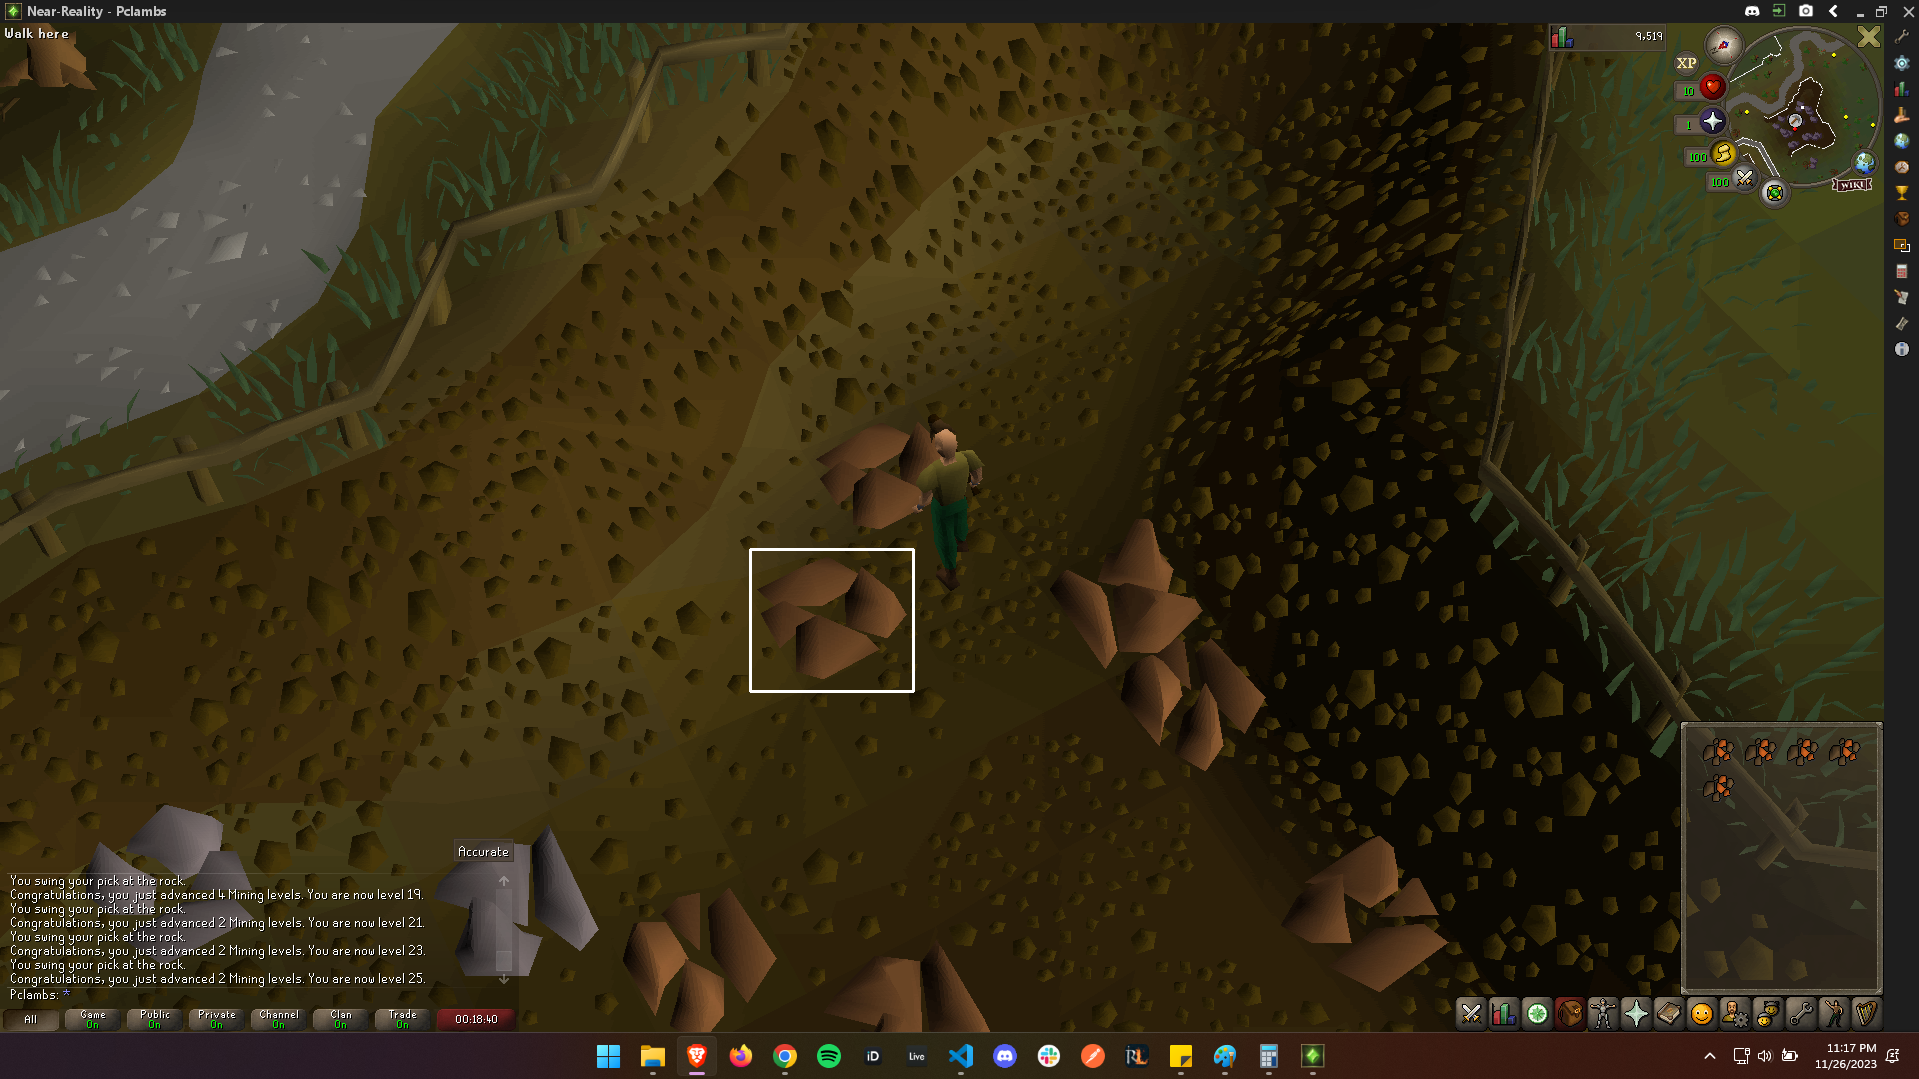
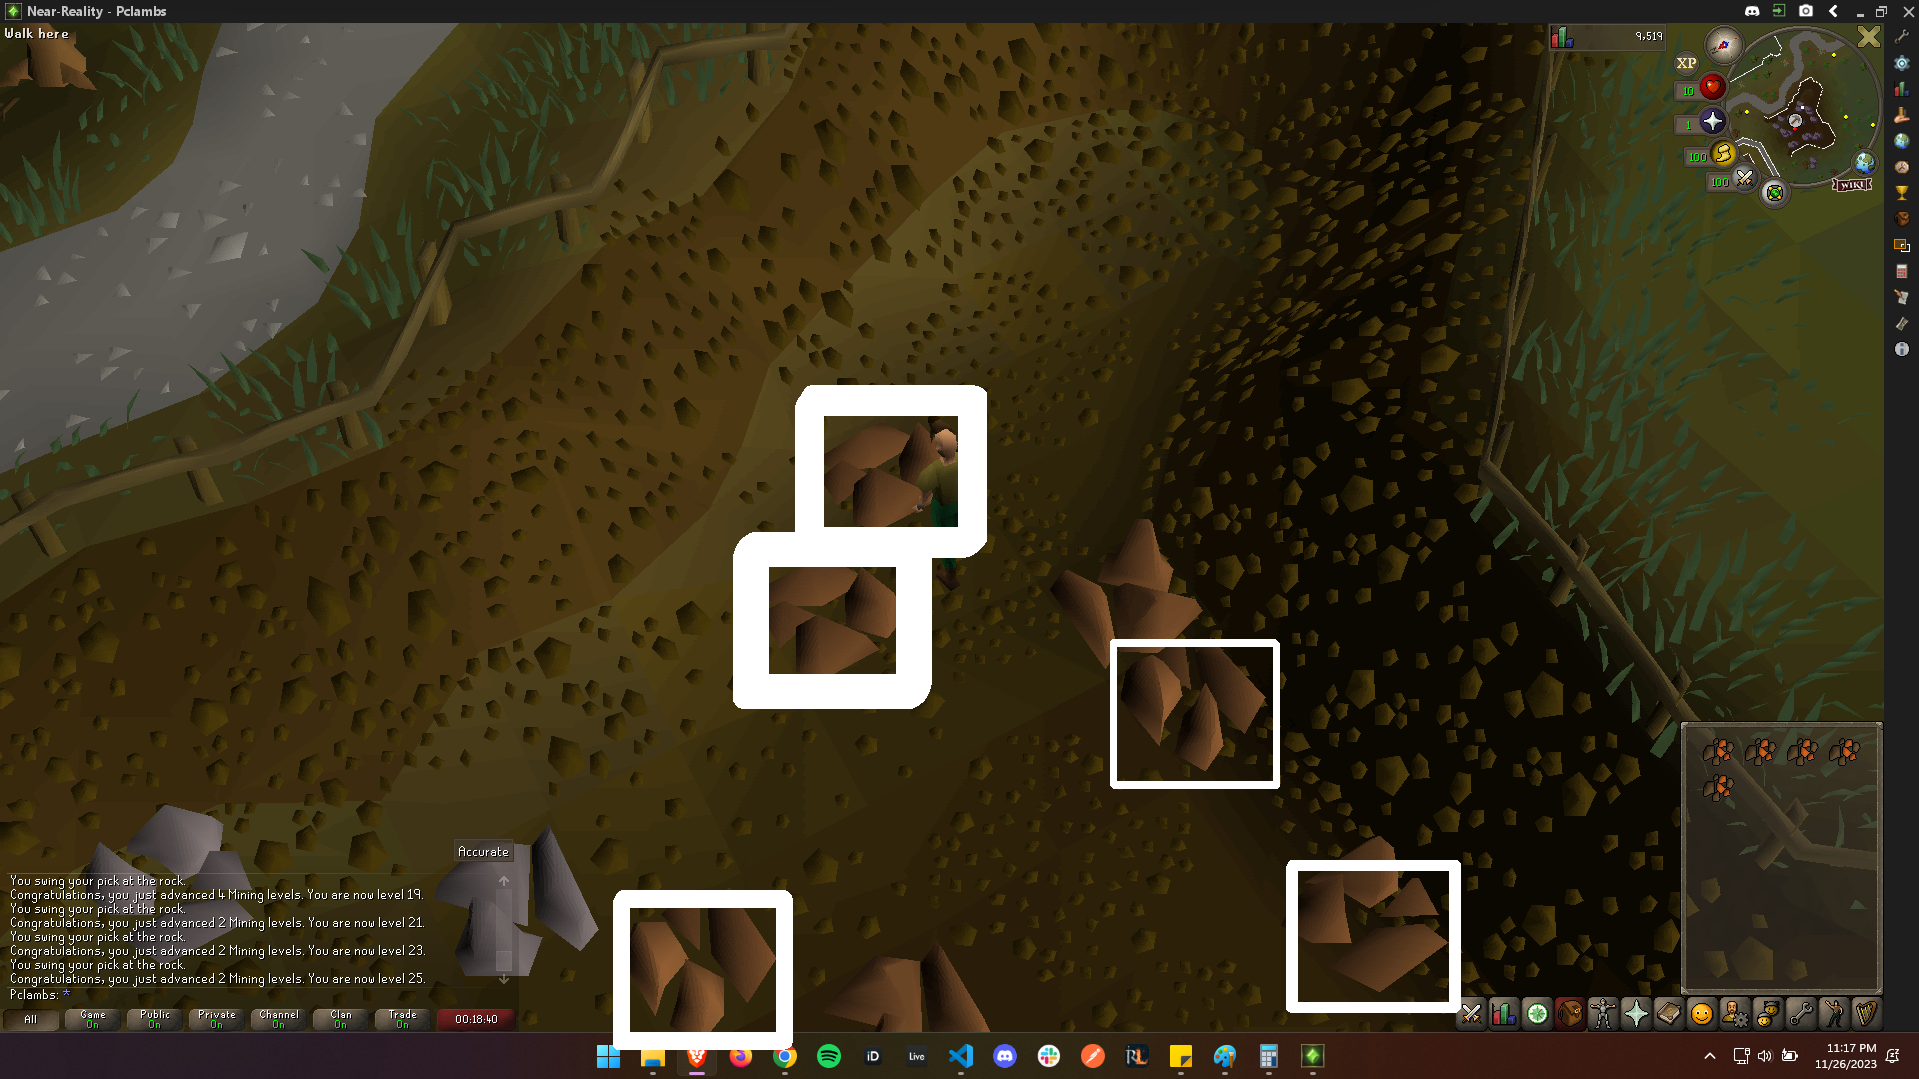
detect matches in multiple locations

diff --git a/main.py b/main.py
@@ -1,41 +1,39 @@
 import cv2 as cv
 import numpy as np
+import os
+
+# change working directory to the folder this script is in
+os.chdir(os.path.dirname(os.path.abspath(__file__)))
 
 # load images
 haystack_img = cv.imread('mine.png', cv.IMREAD_UNCHANGED)
 needle_img = cv.imread('copper.png', cv.IMREAD_UNCHANGED)
 
 result = cv.matchTemplate(haystack_img, needle_img, cv.TM_CCOEFF_NORMED)
+print(result)
 
-# get the best match position
-min_val, max_val, min_loc, max_loc = cv.minMaxLoc(result)
+threshold = 0.39
+locations = np.where(result >= threshold)
+# zip will create tuples of x, y coordinates
+locations = list(zip(*locations[::-1]))
+# print(locations)
 
-print('Best match top left position: %s' % str(max_loc))
-print('Best match confidence: %s' % max_val)
+if locations:
+  print('Found needle.')
 
-# threshold to decide when we have found a match
-threshold = 0.8
-if max_val >= threshold:
-  print('found needle')
-
-  # get dimensions of the needle image
   needle_w = needle_img.shape[1]
   needle_h = needle_img.shape[0]
+  line_color = (0, 255, 0)
+  line_type = cv.LINE_4
 
-  # get dimensions of the needle image
-  top_left = max_loc
-  bottom_right = (top_left[0] + needle_w, top_left[1] + needle_h)
+  # loop over all the locations and draw their rectangles
+  for loc in locations:
+    # determine the box positions
+    top_left = loc
+    bottom_right = (top_left[0] + needle_w, top_left[1] + needle_h)
+    # draw the box
+    cv.rectangle(haystack_img, top_left, bottom_right, line_color, line_type)
 
-  # draw a rectangle around the matched region
-  cv.rectangle(haystack_img, top_left, bottom_right, 
-                color=(0, 255, 0), thickness=2, lineType=cv.LINE_4)
-  
-  # show the result
-  # cv.imshow('Result', haystack_img)
-
-  # save the result
-  cv.imwrite('result.png', haystack_img)
-
+  cv.imshow('Matches', haystack_img)
   cv.waitKey()
-else:
-  print('no needle found')
+  cv.imwrite('result.png', haystack_img)
